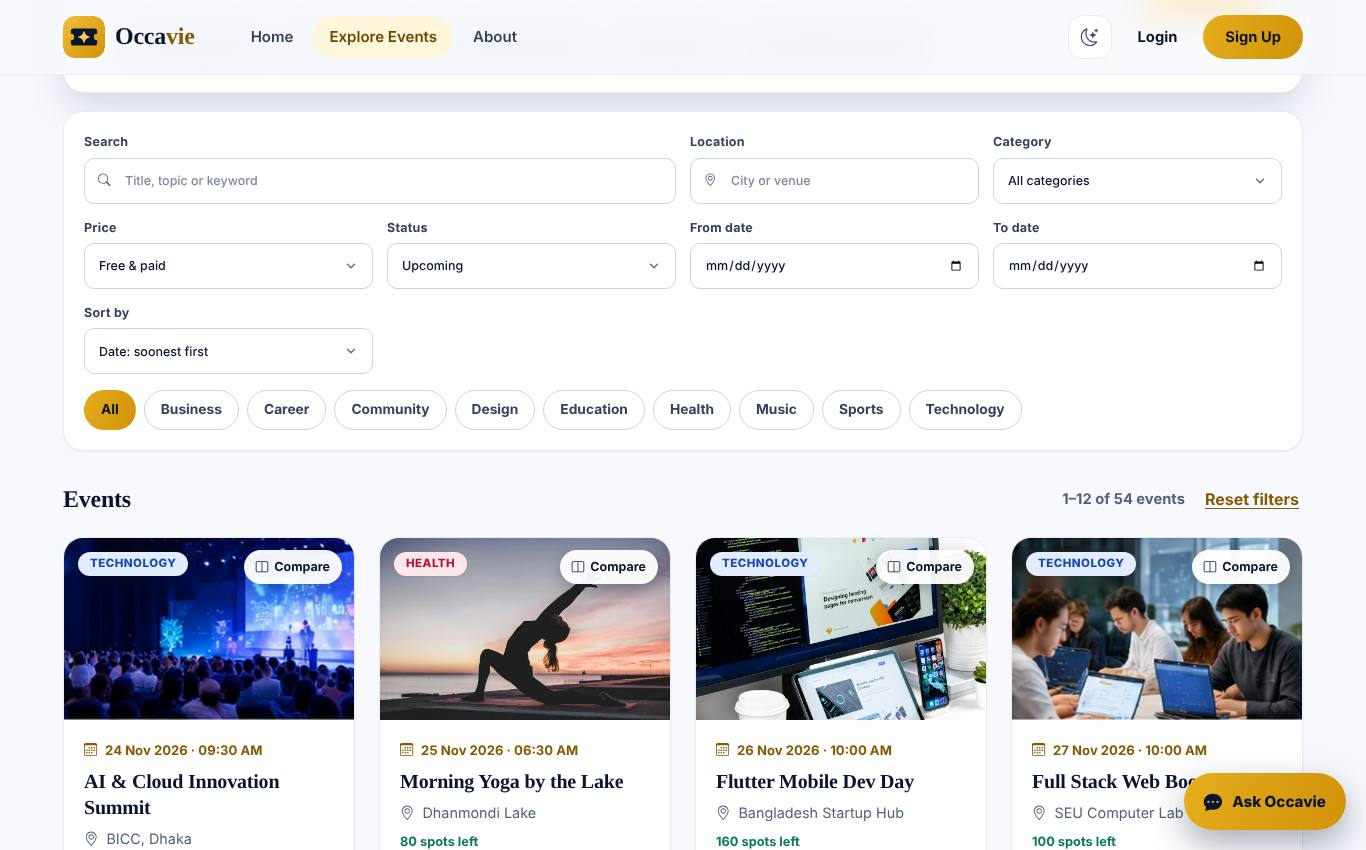
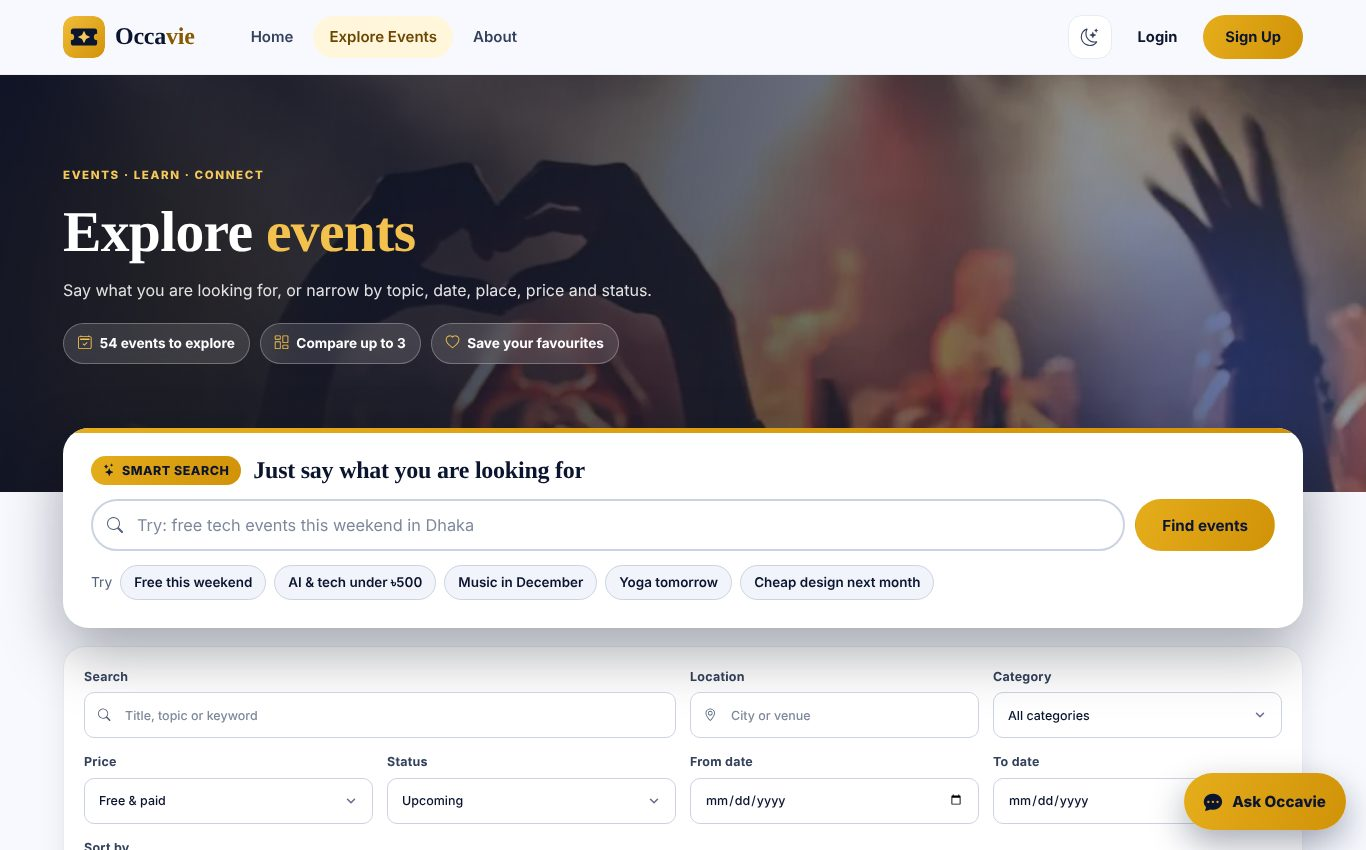
Redesign the events page
Moving photo hero with highlight chips, the smart-search card floating over it with
a gold accent and focus ring, rounder filter panel, and staggered card entrance
with a stronger hover lift. Filtering behaviour is unchanged. axe clean at 4
sizes/themes.

Claude-Session: https://claude.ai/code/session_0133mjV3fwqNK9PBtkP1vyh6

diff --git a/src/main/resources/static/css/occavie-public.css b/src/main/resources/static/css/occavie-public.css
@@ -912,3 +912,26 @@ body.contact-public-body .contact-submit-button { min-height: 50px; padding: 0 2
 .ov-home-band { margin-top: 84px; }
 .ov-home-band .ov-ab-section { padding-top: 72px; }
 @media (max-width: 860px) { .ov-home-steps { grid-template-columns: 1fr; } .ov-home-stats { grid-template-columns: repeat(2, minmax(0, 1fr)); } }
+
+/* ---- Events page ---- */
+.ov-ex-hero { background: #0B1530; padding-bottom: clamp(88px, 10vw, 128px); }
+.ov-ex-hero .ov-auth-bg { z-index: -2; }
+.ov-ex-hero::before { background: linear-gradient(100deg, rgba(8,14,36,.92) 0%, rgba(8,14,36,.66) 50%, rgba(8,14,36,.3) 100%), radial-gradient(45% 55% at 10% 100%, rgba(229,173,28,.3), transparent 70%); z-index: -1; }
+.ov-ex-hero h1 em { font-style: normal; color: #F2C14E; }
+.ov-ex-hero .ov-ct-chips { margin-top: 8px; }
+.ov-explore-content { margin-top: -64px; }
+.ov-smart { position: relative; overflow: hidden; border: 0; border-radius: 26px; box-shadow: 0 24px 60px rgba(5,9,24,.35); }
+.ov-smart::before { content: ""; position: absolute; left: 0; right: 0; top: 0; height: 5px; background: var(--gradient); }
+.ov-smart-form input { border: 2px solid var(--line-strong); transition: border-color .15s, box-shadow .15s; }
+.ov-smart-form input:focus { border-color: var(--gold-2, #D19208); box-shadow: 0 0 0 4px rgba(229,173,28,.25); outline: none; }
+.ov-smart-badge { background: var(--gradient); color: #0B1530; }
+.ov-filter-shell { border-radius: 22px; border: 1px solid var(--line); box-shadow: 0 10px 30px rgba(11,21,48,.08); }
+.ov-category-button { padding: 9px 18px; transition: transform .15s, border-color .15s, box-shadow .15s; }
+.ov-category-button:hover { transform: translateY(-2px); }
+.ov-list-heading h2 { font-family: var(--font-display); font-size: clamp(1.6rem, 3vw, 2.2rem); }
+.ov-explore-page .ov-event-card { animation: ovCardIn .5s ease both; }
+.ov-explore-page .ov-event-card:nth-child(2) { animation-delay: .05s; } .ov-explore-page .ov-event-card:nth-child(3) { animation-delay: .1s; }
+.ov-explore-page .ov-event-card:nth-child(4) { animation-delay: .15s; } .ov-explore-page .ov-event-card:nth-child(n+5) { animation-delay: .2s; }
+@keyframes ovCardIn { from { opacity: 0; transform: translateY(18px); } }
+.ov-explore-page .ov-event-card:hover { transform: translateY(-6px); box-shadow: 0 18px 44px rgba(11,21,48,.18); }
+@media (prefers-reduced-motion: reduce) { .ov-explore-page .ov-event-card { animation: none; } }

diff --git a/src/main/resources/templates/events.html b/src/main/resources/templates/events.html
@@ -5,12 +5,20 @@
 <a class="skip-link" href="#main-content">Skip to content</a>
 <div th:replace="~{fragments :: siteNav('events')}"></div>
 <main id="main-content">
-  <section class="ov-explore-intro ov-explore-photo">
-    <img class="ov-hero-bgimg" th:src="@{/images/home-conference-hero.webp}" src="/images/home-conference-hero.webp" alt="" width="1600" height="900">
+  <section class="ov-explore-intro ov-explore-photo ov-ex-hero" aria-labelledby="exTitle">
+    <div class="ov-auth-bg" aria-hidden="true">
+      <span class="s1"></span><span class="s2"></span><span class="s3"></span><span class="s4"></span><span class="s5"></span>
+      <i class="orb o1"></i><i class="orb o2"></i>
+    </div>
     <div class="ov-container">
       <p class="ov-eyebrow">EVENTS · LEARN · CONNECT</p>
-      <h1>Explore events</h1>
-      <p>Search by keyword, then narrow by category, date, location, price or status.</p>
+      <h1 id="exTitle">Explore <em>events</em></h1>
+      <p>Say what you are looking for, or narrow by topic, date, place, price and status.</p>
+      <ul class="ov-ct-chips" aria-label="Highlights">
+        <li><i class="bi bi-calendar2-check" aria-hidden="true"></i> <span th:text="${initialEventCount + ' events to explore'}">24 events to explore</span></li>
+        <li><i class="bi bi-columns-gap" aria-hidden="true"></i> Compare up to 3</li>
+        <li><i class="bi bi-heart" aria-hidden="true"></i> Save your favourites</li>
+      </ul>
     </div>
   </section>
 
